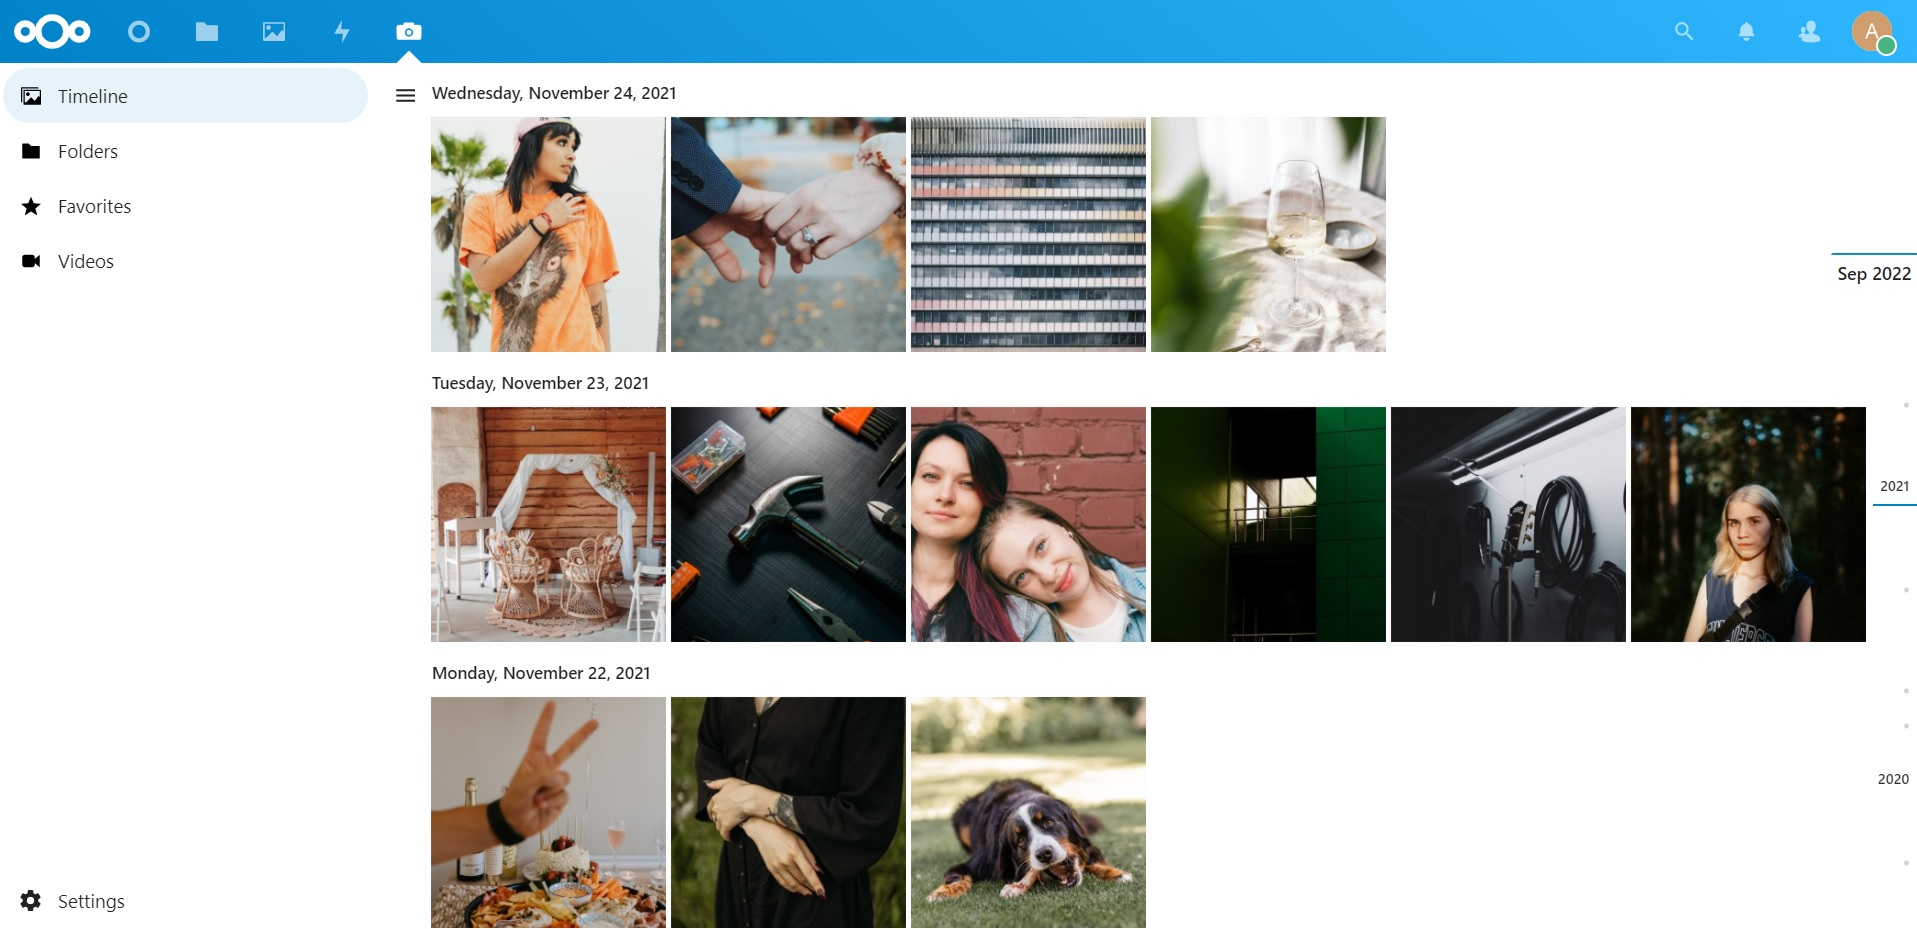
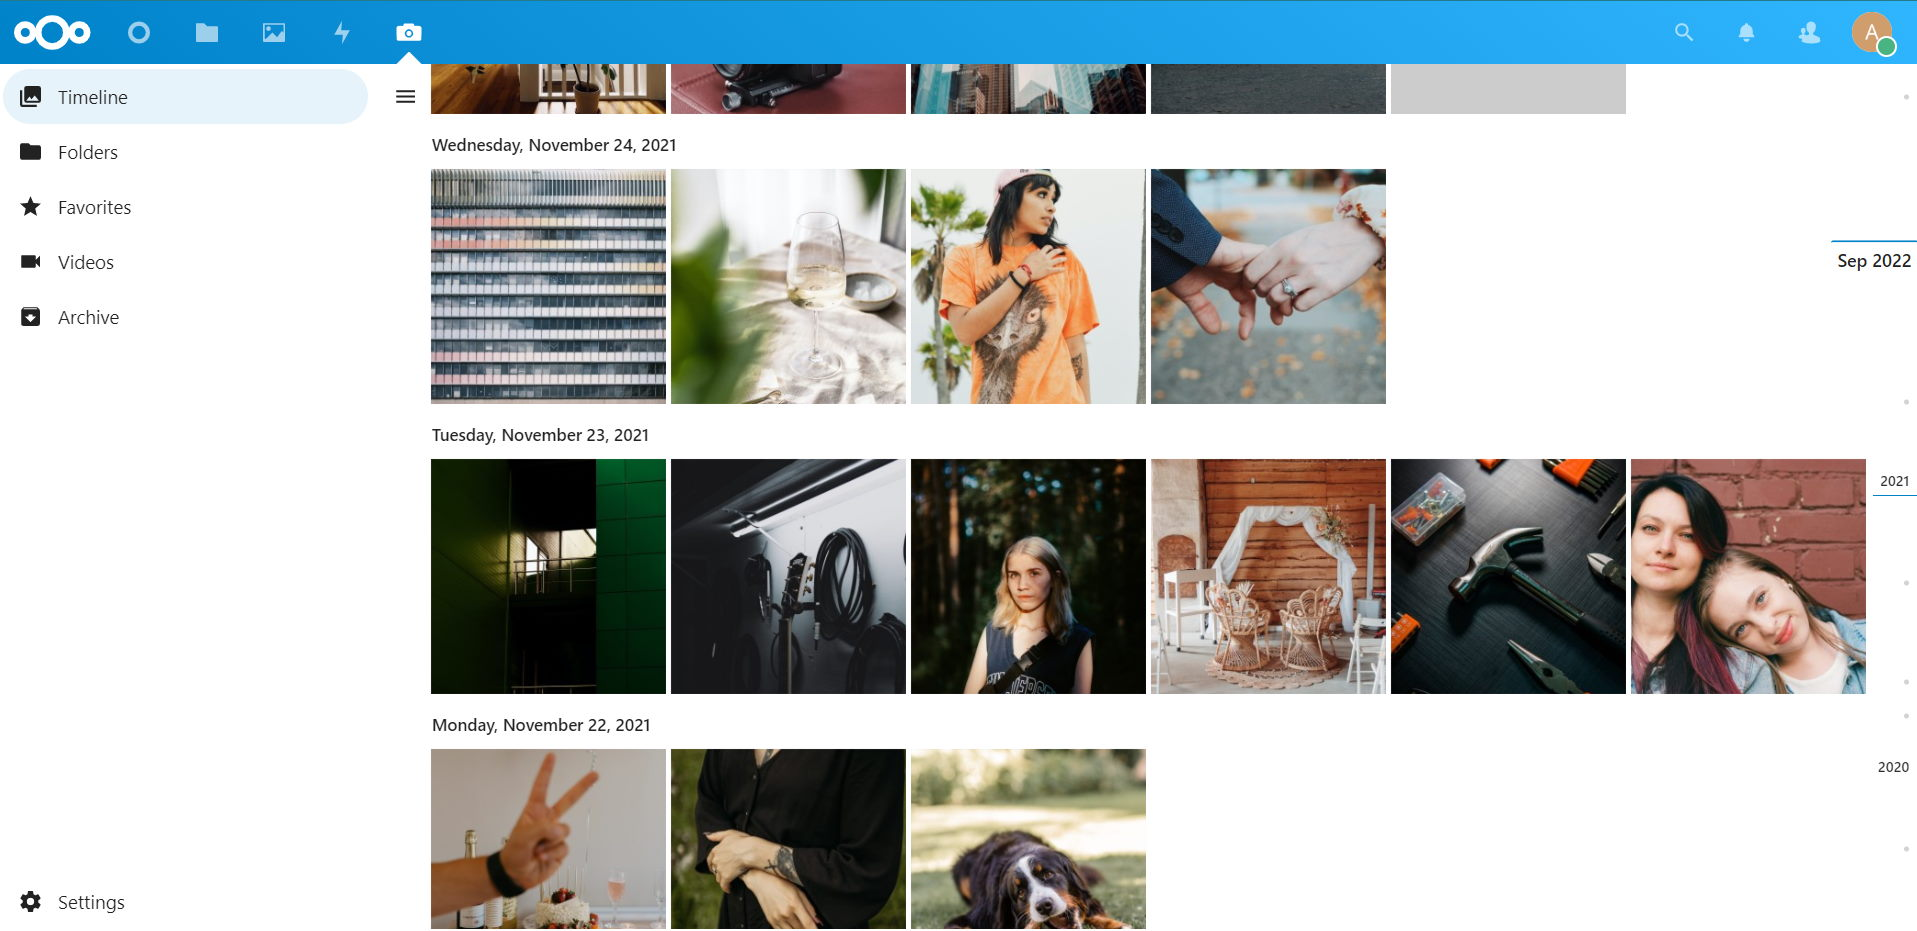
Update art and docs

diff --git a/README.md b/README.md
@@ -13,6 +13,7 @@
 * **📱 Mobile Support**: Relive your memories on devices of any shape and size through the web app.
 * **🗑 Recycle**: Select and delete multiple photos and videos at once.
 * **✏ Edit Metadata**: Edit Exif dates on photos quickly and easily.
+* **📦 Archive**: Store photos you don't want to see in your timeline in a separate folder.
 * **⚡ Fast**: Memories is extremely fast. Period. More details below.
 
 ## 🚀 Installation
